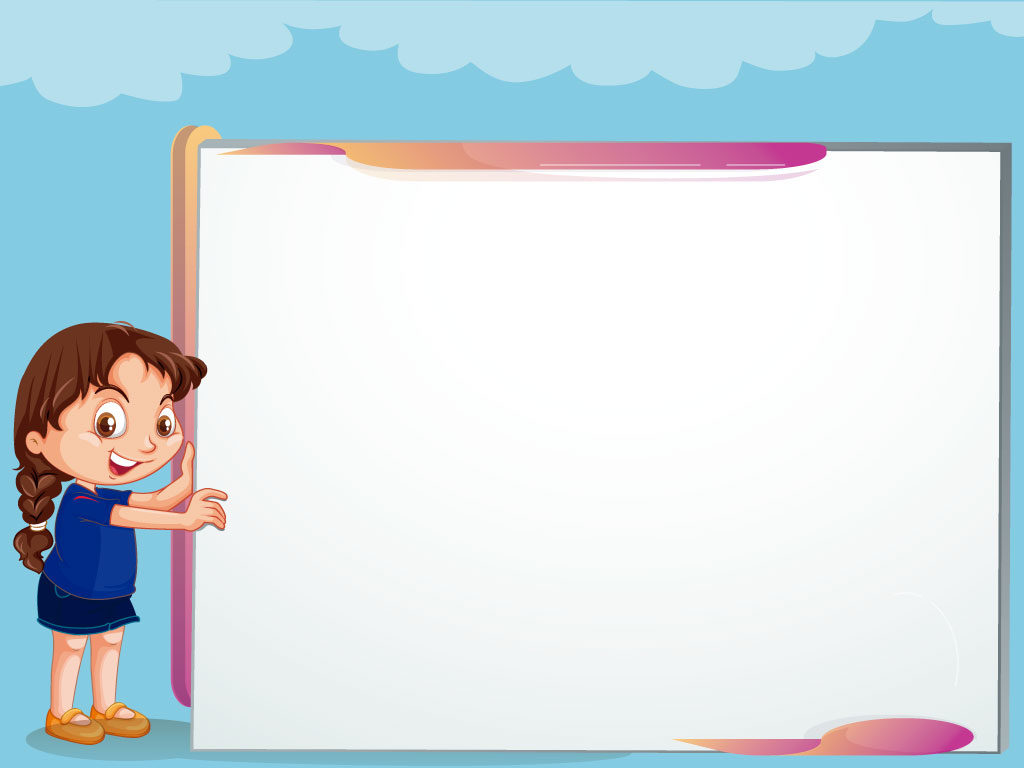
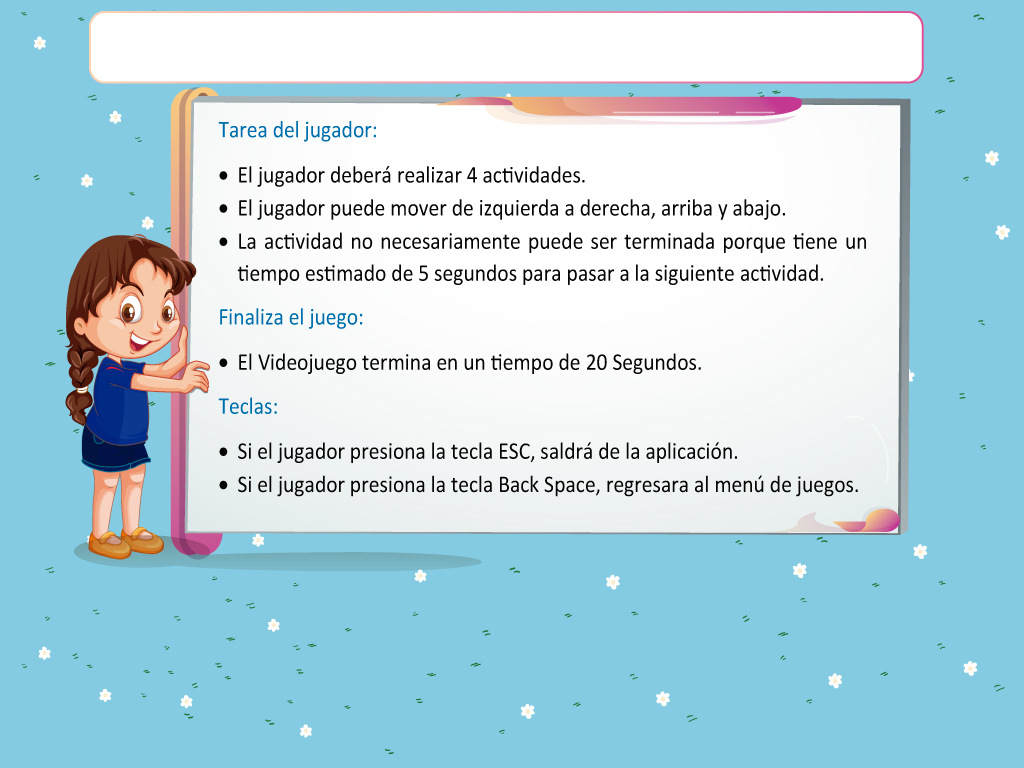
Modificando Fondos de Instrucciones

diff --git a/JuegoFinal/main.py b/JuegoFinal/main.py
@@ -1611,6 +1611,20 @@ class IdleScreen():
 			# Iterator boolean -> Indica a programa cuando finalizar
 			# Muy importante bool para la manipulacion del raton
 			dummy = False
+			# Cargar Imagen de Carita Feliz
+			CaritaFeliz = pygame.image.load("Imagenes/CaritaFeliz.png")
+			spriteFeliz = pygame.sprite.Sprite()
+			spriteFeliz.image = CaritaFeliz
+			spriteFeliz.rect = CaritaFeliz.get_rect()
+			# Cargar Imagen de Carita Triste
+			CaritaTriste = pygame.image.load("Imagenes/CaritaTriste.png")
+			spriteTriste = pygame.sprite.Sprite()
+			spriteTriste.image = CaritaTriste
+			spriteTriste.rect = CaritaTriste.get_rect()
+			# Cargar la Palabra de Correcto
+			TxtCorrecto = pygame.transform.flip(self.font.render("Correcto", 1, (255, 14, 0)), 1, 0)
+			# Cargar la Palabra de Incorrecto
+			TxtIncorrecto = pygame.transform.flip(self.font.render("Incorrecto", 1, (255, 14, 0)), 1, 0)
 			# Cargar el Temporizador
 			Tempo = Temporizador.Tiempito(self.fontPuntaje, (128, 67))
 			# Instancia del Objeto Puntaje
@@ -1664,8 +1678,10 @@ class IdleScreen():
 								# Verificar cual de los botones se ha pulsado
 								if identidad == "izquierda" and actividad == 1:
 									puntos.score_up()
+									#screen.blit(Texto, (320,300))
 								if identidad == "derecha" and actividad == 2:
 									puntos.score_up()
+
 					# Controlamos el cliqueo del mouse
 					if actividad == 3 or actividad == 4:
 						if enJuego == True:
@@ -1691,6 +1707,35 @@ class IdleScreen():
 				Tempo.update(screen)
 				# Actualizar el Puntaje del jugador
 				puntos.update(screen)
+				# Mostrar las Caritas Feliz o Triste y la Palabra Correcta e Incorrecta
+				# Actividad 1
+				if identidad == "izquierda" and actividad == 1:
+					self.screen.blit(TxtCorrecto, (700,300))
+					self.screen.blit(spriteFeliz.image, (700,400))
+				if identidad == "derecha" and actividad == 1:
+					self.screen.blit(TxtIncorrecto, (100,300))
+					self.screen.blit(spriteTriste.image, (100,400))
+				# Actividad 2
+				if identidad == "izquierda" and actividad == 2:
+					self.screen.blit(TxtIncorrecto, (700,300))
+					self.screen.blit(spriteTriste.image, (700,400))
+				if identidad == "derecha" and actividad == 2:
+					self.screen.blit(TxtCorrecto, (100,300))
+					self.screen.blit(spriteFeliz.image, (100,400))
+				# Actividad 3
+				if identidad == "arriba" and actividad == 3:
+					self.screen.blit(TxtCorrecto, (700,300))
+					self.screen.blit(spriteFeliz.image, (700,400))
+				if identidad == "abajo" and actividad == 3:
+					self.screen.blit(TxtIncorrecto, (100,300))
+					self.screen.blit(spriteTriste.image, (100,400))
+				# Actividad 4
+				if identidad == "arriba" and actividad == 4:
+					self.screen.blit(TxtIncorrecto, (700,300))
+					self.screen.blit(spriteTriste.image, (700,400))
+				if identidad == "abajo" and actividad == 4:
+					self.screen.blit(TxtCorrecto, (100,300))
+					self.screen.blit(spriteFeliz.image, (100,400))
 				# Verificar el Tiempo Transcurrido
 				if Tempo.temporal == 500:
 					enJuego = False
@@ -2203,13 +2248,13 @@ class IdleScreen():
 				self.bgImageInstrucciones = pygame.transform.flip(pygame.image.load("Imagenes/FondoInstIzquierdaDerecha.jpg").convert(), 1, 0)
 			elif NroJuego == 3:
 				TituloJuego = "Arriba, Abajo"
-				self.bgImageInstrucciones = pygame.transform.flip(pygame.image.load("Imagenes/mainbg.jpg").convert(), 1, 0)
+				self.bgImageInstrucciones = pygame.transform.flip(pygame.image.load("Imagenes/FondoInstArribaAbajo.jpg").convert(), 1, 0)
 			elif NroJuego == 4:
-				TituloJuego = "Mover Objetos"
-				self.bgImageInstrucciones = pygame.transform.flip(pygame.image.load("Imagenes/mainbg.jpg").convert(), 1, 0)
+				TituloJuego = "Adentro Afuera"
+				self.bgImageInstrucciones = pygame.transform.flip(pygame.image.load("Imagenes/FondoInstAdentroAfuera.jpg").convert(), 1, 0)
 			else:
 				TituloJuego = "Laberinto"
-				self.bgImageInstrucciones = pygame.transform.flip(pygame.image.load("Imagenes/mainbg.jpg").convert(), 1, 0)
+				self.bgImageInstrucciones = pygame.transform.flip(pygame.image.load("Imagenes/FondoInstLaberinto.jpg").convert(), 1, 0)
 			# Carga el Titulo de las Instrucciones
 			Titulo = pygame.transform.flip(self.fontFinJuego.render("Instrucciones del Juego: " + str(TituloJuego), 1, (0, 0, 255)), 1, 0)
 			# Carga el Puntaje Obtenido en el JUEGO
@@ -2251,7 +2296,7 @@ class IdleScreen():
 				# Se Carga el fondo de la Imagen de Introduccion
 				self.screen.blit(self.bgImageInstrucciones, (0, 0))
 				# Aparece El Titulo de las Instrucciones
-				screen.blit(Titulo,(120,10))
+				screen.blit(Titulo,(150,10))
 				# Se usa para que aparezca las imagenes que dan la vuelta
 				self.floatingPicture()
 				# Se establece en el menu que boton se hizo click (Aqui Aparece el error: List index out of range)
